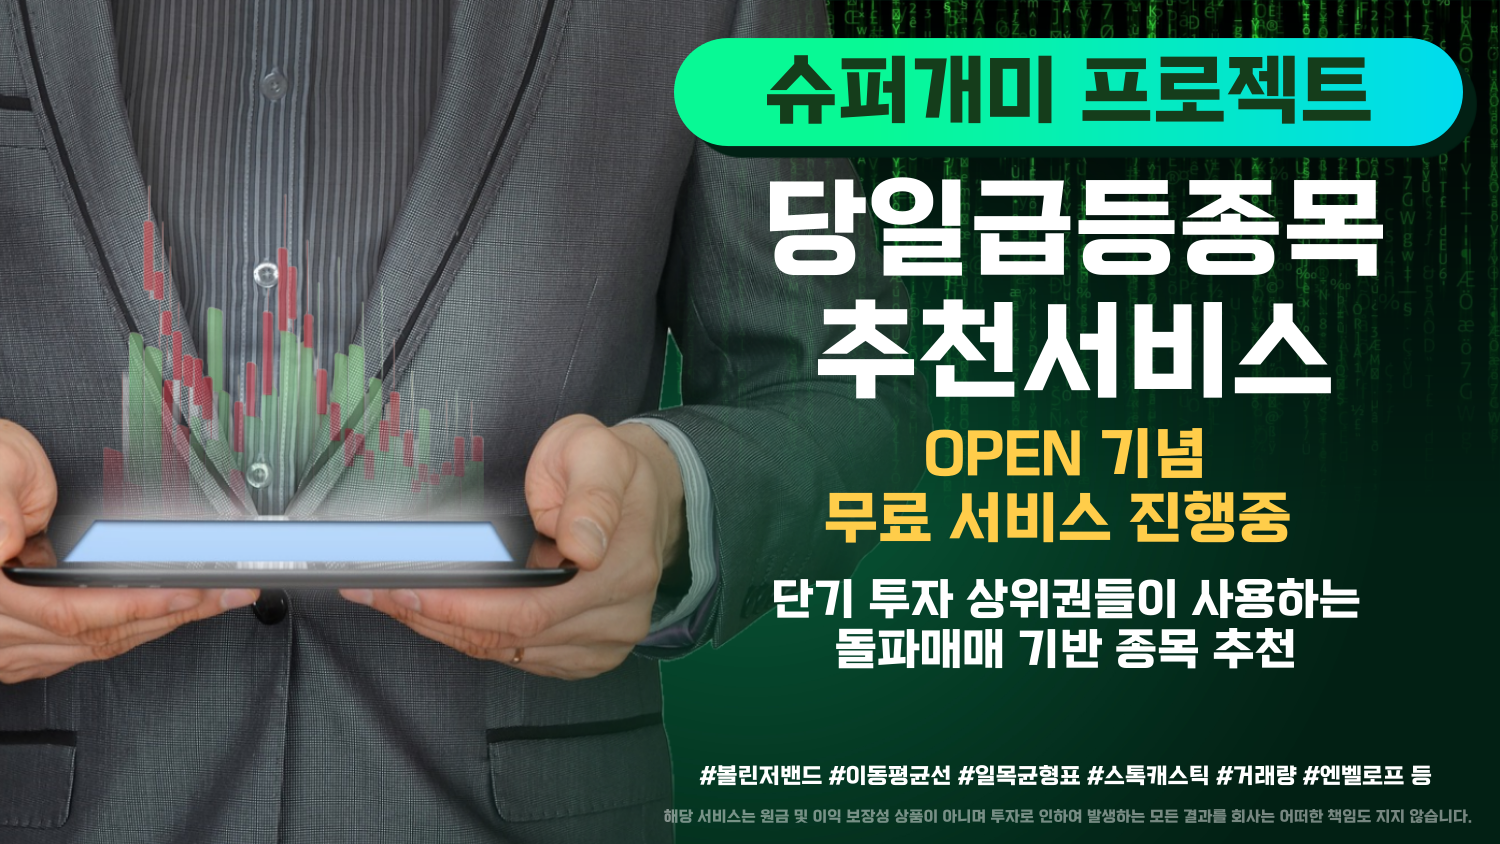
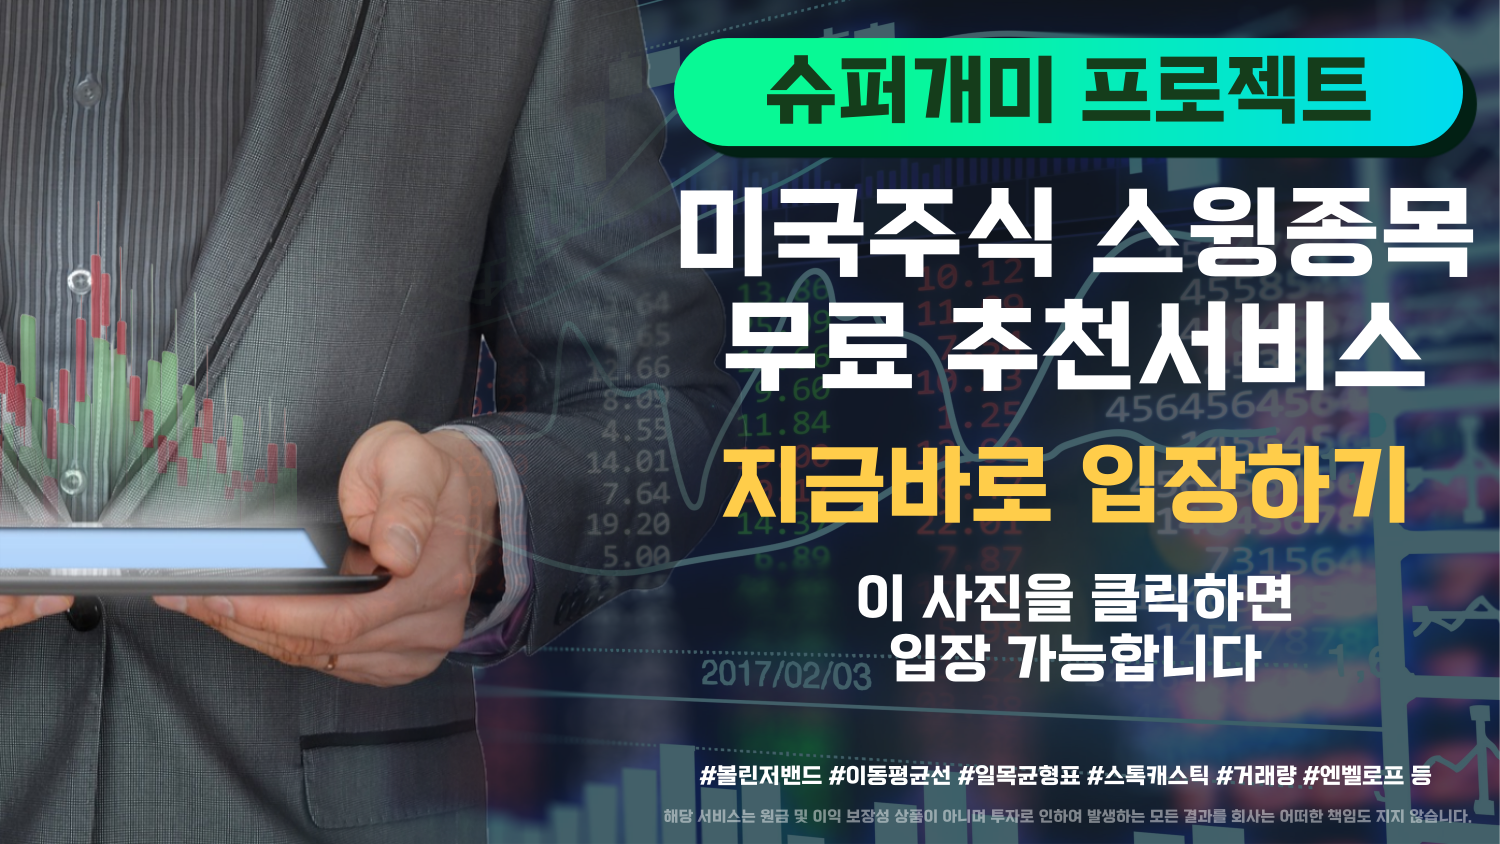
run1212122

diff --git a/index.html b/index.html
@@ -82,9 +82,11 @@
                 가입신청
               </a>
               <ul class="dropdown-menu">
-                <li><a class="dropdown-item" href="https://t.me/+YQYukZMtKvo5NTM1">무료버전 가입신청</a></li>
+                <li><a class="dropdown-item" href="https://t.me/+YQYukZMtKvo5NTM1">국내주식 유료버전 가입신청</a></li>
                 <li><hr class="dropdown-divider"></li>
-                <li><a class="dropdown-item" href="https://docs.google.com/forms/d/e/1FAIpQLScll9XCgVUi_xm8oJ2P9vaxQmY382F0giK_-i0nk6JN6NfACQ/viewform?usp=sf_link">유료버전 가입신청</a></li>
+                <li><a class="dropdown-item" href="https://docs.google.com/forms/d/e/1FAIpQLScll9XCgVUi_xm8oJ2P9vaxQmY382F0giK_-i0nk6JN6NfACQ/viewform?usp=sf_link">미국주식 유료버전 가입신청</a></li>
+                <li><hr class="dropdown-divider"></li>
+                <li><a class="dropdown-item" href="#" id="freeRider">미국 OR 국내 무료버전 가입신청</a></li>
               </ul>
             </li>
             <li class="nav-item">
@@ -108,13 +110,13 @@
     </section>
 
     <section id="bannerSection">
-      <a href="https://t.me/+YQYukZMtKvo5NTM1" target="_blank" name="스윙방배너">
+      <a href="https://t.me/+vKYz0uBUwthiMGNl" target="_blank" name="미국배너">
         <img src="mainimage/main2.png" alt="">
       </a>
       <a href="https://t.me/+YQYukZMtKvo5NTM1" target="_blank" name="문의배너">
         <img src="mainimage/002.png" alt="">
       </a>
-      <a href="https://docs.google.com/forms/d/e/1FAIpQLScll9XCgVUi_xm8oJ2P9vaxQmY382F0giK_-i0nk6JN6NfACQ/viewform?usp=sf_link" target="_blank" name="단타방배너">
+      <a href="https://happytalk.io/l/rvfoxn" target="_blank" name="단타방배너">
         <img src="mainimage/001.png" alt="">
       </a>
       </a>
@@ -191,6 +193,12 @@
       });
     });
 </script> 
+<script>
+  let a = document.querySelector("#freeRider")
+  a.onclick = () => {
+    alert("메인 홈페이지에서 '입장하기' 이미지를 눌러주세요.")
+  }
+</script>
   <footer>
     <p>© 2024 All rights reserved by BDBC 투자연구소</p>
     <div><button id="이메일무단수집거부">이메일무단수집거부</button><button id="개인정보처리방침">개인정보처리방침</button><button id="이용약관">이용약관</button><button id="a2">게시물 운영 및 저작권 정책</button><button id="a3">내부통제기준</button><button id="a4">전문가 윤리강령</button><button id="a5">준법서약서</button></div>

diff --git a/rule/이용약관.html b/rule/이용약관.html
@@ -69,7 +69,7 @@
               <ul class="dropdown-menu">
                 <li><a class="dropdown-item" href="https://t.me/+YQYukZMtKvo5NTM1">무료버전 가입신청</a></li>
                 <li><hr class="dropdown-divider"></li>
-                <li><a class="dropdown-item" href="https://docs.google.com/forms/d/e/1FAIpQLScll9XCgVUi_xm8oJ2P9vaxQmY382F0giK_-i0nk6JN6NfACQ/viewform?usp=sf_link">유료버전 가입신청</a></li>
+                <li><a class="dropdown-item" href="https://docs.google.com/forms/d/e/1FAIpQLSdZ61GO9RHRPZGP7wBJlj6YvHE3c9fI1vrR1s3HqtB7BjM6VA/viewform?usp=sf_link">유료버전 가입신청</a></li>
               </ul>
             </li>
             <li class="nav-item">
@@ -170,7 +170,8 @@
 제 12 조 (서비스의 이용요금)</br>
 ① 별도로 표시된 유료서비스를 제외한 모든 서비스는 회원들에게 무료로 제공됩니다.</br>
 ② 유료서비스의 이용요금 및 결제방식은 해당 서비스에 명시되어 있는 별도의 규정에 따릅니다.</br>
-1. 슈퍼개미 프로젝트 – 요금/44,000원, 이용기간/영업일 20일, 결제방식/계좌이체</br></br>
+1. 슈퍼개미 프로젝트 국내주식 – 요금/44,000원, 이용기간/영업일 20일, 결제방식/계좌이체</br>
+2. 슈퍼개미 프로젝트 미국주식 – 요금/44,000원, 이용기간/영업일 20일, 결제방식/계좌이체</br></br>
 
 제 13 조 (서비스의 이용시간)</br>
 ① 서비스의 이용은 연중 무휴, 1일 24시간을 원칙으로 합니다. 다만, 회사는 설비의 정기점검, 보수, 교체 및 고장 등 업무상, 기술상의 이유로 서비스 이용의 전부 또는 일부를 제한할 수 있으며, 이 경우 회사는 사전 또는 사후에 관련 사항을 공지합니다.</br>

diff --git a/edu/edu.html b/edu/edu.html
@@ -69,7 +69,7 @@
               <ul class="dropdown-menu">
                 <li><a class="dropdown-item" href="https://t.me/+YQYukZMtKvo5NTM1">무료버전 가입신청</a></li>
                 <li><hr class="dropdown-divider"></li>
-                <li><a class="dropdown-item" href="https://docs.google.com/forms/d/e/1FAIpQLScll9XCgVUi_xm8oJ2P9vaxQmY382F0giK_-i0nk6JN6NfACQ/viewform?usp=sf_link">유료버전 가입신청</a></li>
+                <li><a class="dropdown-item" href="https://docs.google.com/forms/d/e/1FAIpQLSdZ61GO9RHRPZGP7wBJlj6YvHE3c9fI1vrR1s3HqtB7BjM6VA/viewform?usp=sf_link">유료버전 가입신청</a></li>
               </ul>
             </li>
             <li class="nav-item">

diff --git a/edu/edu2.html b/edu/edu2.html
@@ -69,7 +69,7 @@
               <ul class="dropdown-menu">
                 <li><a class="dropdown-item" href="https://t.me/+YQYukZMtKvo5NTM1">무료버전 가입신청</a></li>
                 <li><hr class="dropdown-divider"></li>
-                <li><a class="dropdown-item" href="https://docs.google.com/forms/d/e/1FAIpQLScll9XCgVUi_xm8oJ2P9vaxQmY382F0giK_-i0nk6JN6NfACQ/viewform?usp=sf_link">유료버전 가입신청</a></li>
+                <li><a class="dropdown-item" href="https://docs.google.com/forms/d/e/1FAIpQLSdZ61GO9RHRPZGP7wBJlj6YvHE3c9fI1vrR1s3HqtB7BjM6VA/viewform?usp=sf_link">유료버전 가입신청</a></li>
               </ul>
             </li>
             <li class="nav-item">

diff --git a/faker/faker.html b/faker/faker.html
@@ -69,7 +69,7 @@
               <ul class="dropdown-menu">
                 <li><a class="dropdown-item" href="https://t.me/+YQYukZMtKvo5NTM1">무료버전 가입신청</a></li>
                 <li><hr class="dropdown-divider"></li>
-                <li><a class="dropdown-item" href="https://docs.google.com/forms/d/e/1FAIpQLScll9XCgVUi_xm8oJ2P9vaxQmY382F0giK_-i0nk6JN6NfACQ/viewform?usp=sf_link">유료버전 가입신청</a></li>
+                <li><a class="dropdown-item" href="https://docs.google.com/forms/d/e/1FAIpQLSdZ61GO9RHRPZGP7wBJlj6YvHE3c9fI1vrR1s3HqtB7BjM6VA/viewform?usp=sf_link">유료버전 가입신청</a></li>
               </ul>
             </li>
             <li class="nav-item">

diff --git a/introduce/intro.html b/introduce/intro.html
@@ -69,7 +69,7 @@
               <ul class="dropdown-menu">
                 <li><a class="dropdown-item" href="https://t.me/+YQYukZMtKvo5NTM1">무료버전 가입신청</a></li>
                 <li><hr class="dropdown-divider"></li>
-                <li><a class="dropdown-item" href="https://docs.google.com/forms/d/e/1FAIpQLScll9XCgVUi_xm8oJ2P9vaxQmY382F0giK_-i0nk6JN6NfACQ/viewform?usp=sf_link">유료버전 가입신청</a></li>
+                <li><a class="dropdown-item" href="https://docs.google.com/forms/d/e/1FAIpQLSdZ61GO9RHRPZGP7wBJlj6YvHE3c9fI1vrR1s3HqtB7BjM6VA/viewform?usp=sf_link">유료버전 가입신청</a></li>
               </ul>
             </li>
             <li class="nav-item">

diff --git a/reading/슈퍼개미프로젝트.html b/reading/슈퍼개미프로젝트.html
@@ -69,7 +69,7 @@
               <ul class="dropdown-menu">
                 <li><a class="dropdown-item" href="https://t.me/+YQYukZMtKvo5NTM1">무료버전 가입신청</a></li>
                 <li><hr class="dropdown-divider"></li>
-                <li><a class="dropdown-item" href="https://docs.google.com/forms/d/e/1FAIpQLScll9XCgVUi_xm8oJ2P9vaxQmY382F0giK_-i0nk6JN6NfACQ/viewform?usp=sf_link">유료버전 가입신청</a></li>
+                <li><a class="dropdown-item" href="https://docs.google.com/forms/d/e/1FAIpQLSdZ61GO9RHRPZGP7wBJlj6YvHE3c9fI1vrR1s3HqtB7BjM6VA/viewform?usp=sf_link">유료버전 가입신청</a></li>
               </ul>
             </li>
             <li class="nav-item">

diff --git a/rule/개인정보처리방침.html b/rule/개인정보처리방침.html
@@ -69,7 +69,7 @@
               <ul class="dropdown-menu">
                 <li><a class="dropdown-item" href="https://t.me/+YQYukZMtKvo5NTM1">무료버전 가입신청</a></li>
                 <li><hr class="dropdown-divider"></li>
-                <li><a class="dropdown-item" href="https://docs.google.com/forms/d/e/1FAIpQLScll9XCgVUi_xm8oJ2P9vaxQmY382F0giK_-i0nk6JN6NfACQ/viewform?usp=sf_link">유료버전 가입신청</a></li>
+                <li><a class="dropdown-item" href="https://docs.google.com/forms/d/e/1FAIpQLSdZ61GO9RHRPZGP7wBJlj6YvHE3c9fI1vrR1s3HqtB7BjM6VA/viewform?usp=sf_link">유료버전 가입신청</a></li>
               </ul>
             </li>
             <li class="nav-item">

diff --git a/rule/게시물운영및저작권정책.html b/rule/게시물운영및저작권정책.html
@@ -69,7 +69,7 @@
               <ul class="dropdown-menu">
                 <li><a class="dropdown-item" href="https://t.me/+YQYukZMtKvo5NTM1">무료버전 가입신청</a></li>
                 <li><hr class="dropdown-divider"></li>
-                <li><a class="dropdown-item" href="https://docs.google.com/forms/d/e/1FAIpQLScll9XCgVUi_xm8oJ2P9vaxQmY382F0giK_-i0nk6JN6NfACQ/viewform?usp=sf_link">유료버전 가입신청</a></li>
+                <li><a class="dropdown-item" href="https://docs.google.com/forms/d/e/1FAIpQLSdZ61GO9RHRPZGP7wBJlj6YvHE3c9fI1vrR1s3HqtB7BjM6VA/viewform?usp=sf_link">유료버전 가입신청</a></li>
               </ul>
             </li>
             <li class="nav-item">

diff --git a/rule/내부통제기준.html b/rule/내부통제기준.html
@@ -69,7 +69,7 @@
               <ul class="dropdown-menu">
                 <li><a class="dropdown-item" href="https://t.me/+YQYukZMtKvo5NTM1">무료버전 가입신청</a></li>
                 <li><hr class="dropdown-divider"></li>
-                <li><a class="dropdown-item" href="https://docs.google.com/forms/d/e/1FAIpQLScll9XCgVUi_xm8oJ2P9vaxQmY382F0giK_-i0nk6JN6NfACQ/viewform?usp=sf_link">유료버전 가입신청</a></li>
+                <li><a class="dropdown-item" href="https://docs.google.com/forms/d/e/1FAIpQLSdZ61GO9RHRPZGP7wBJlj6YvHE3c9fI1vrR1s3HqtB7BjM6VA/viewform?usp=sf_link">유료버전 가입신청</a></li>
               </ul>
             </li>
             <li class="nav-item">

diff --git a/rule/전문가윤리강령.html b/rule/전문가윤리강령.html
@@ -69,7 +69,7 @@
               <ul class="dropdown-menu">
                 <li><a class="dropdown-item" href="https://t.me/+YQYukZMtKvo5NTM1">무료버전 가입신청</a></li>
                 <li><hr class="dropdown-divider"></li>
-                <li><a class="dropdown-item" href="https://docs.google.com/forms/d/e/1FAIpQLScll9XCgVUi_xm8oJ2P9vaxQmY382F0giK_-i0nk6JN6NfACQ/viewform?usp=sf_link">유료버전 가입신청</a></li>
+                <li><a class="dropdown-item" href="https://docs.google.com/forms/d/e/1FAIpQLSdZ61GO9RHRPZGP7wBJlj6YvHE3c9fI1vrR1s3HqtB7BjM6VA/viewform?usp=sf_link">유료버전 가입신청</a></li>
               </ul>
             </li>
             <li class="nav-item">

diff --git a/rule/준법서약서.html b/rule/준법서약서.html
@@ -69,7 +69,7 @@
               <ul class="dropdown-menu">
                 <li><a class="dropdown-item" href="https://t.me/+YQYukZMtKvo5NTM1">무료버전 가입신청</a></li>
                 <li><hr class="dropdown-divider"></li>
-                <li><a class="dropdown-item" href="https://docs.google.com/forms/d/e/1FAIpQLScll9XCgVUi_xm8oJ2P9vaxQmY382F0giK_-i0nk6JN6NfACQ/viewform?usp=sf_link">유료버전 가입신청</a></li>
+                <li><a class="dropdown-item" href="https://docs.google.com/forms/d/e/1FAIpQLSdZ61GO9RHRPZGP7wBJlj6YvHE3c9fI1vrR1s3HqtB7BjM6VA/viewform?usp=sf_link">유료버전 가입신청</a></li>
               </ul>
             </li>
             <li class="nav-item">
